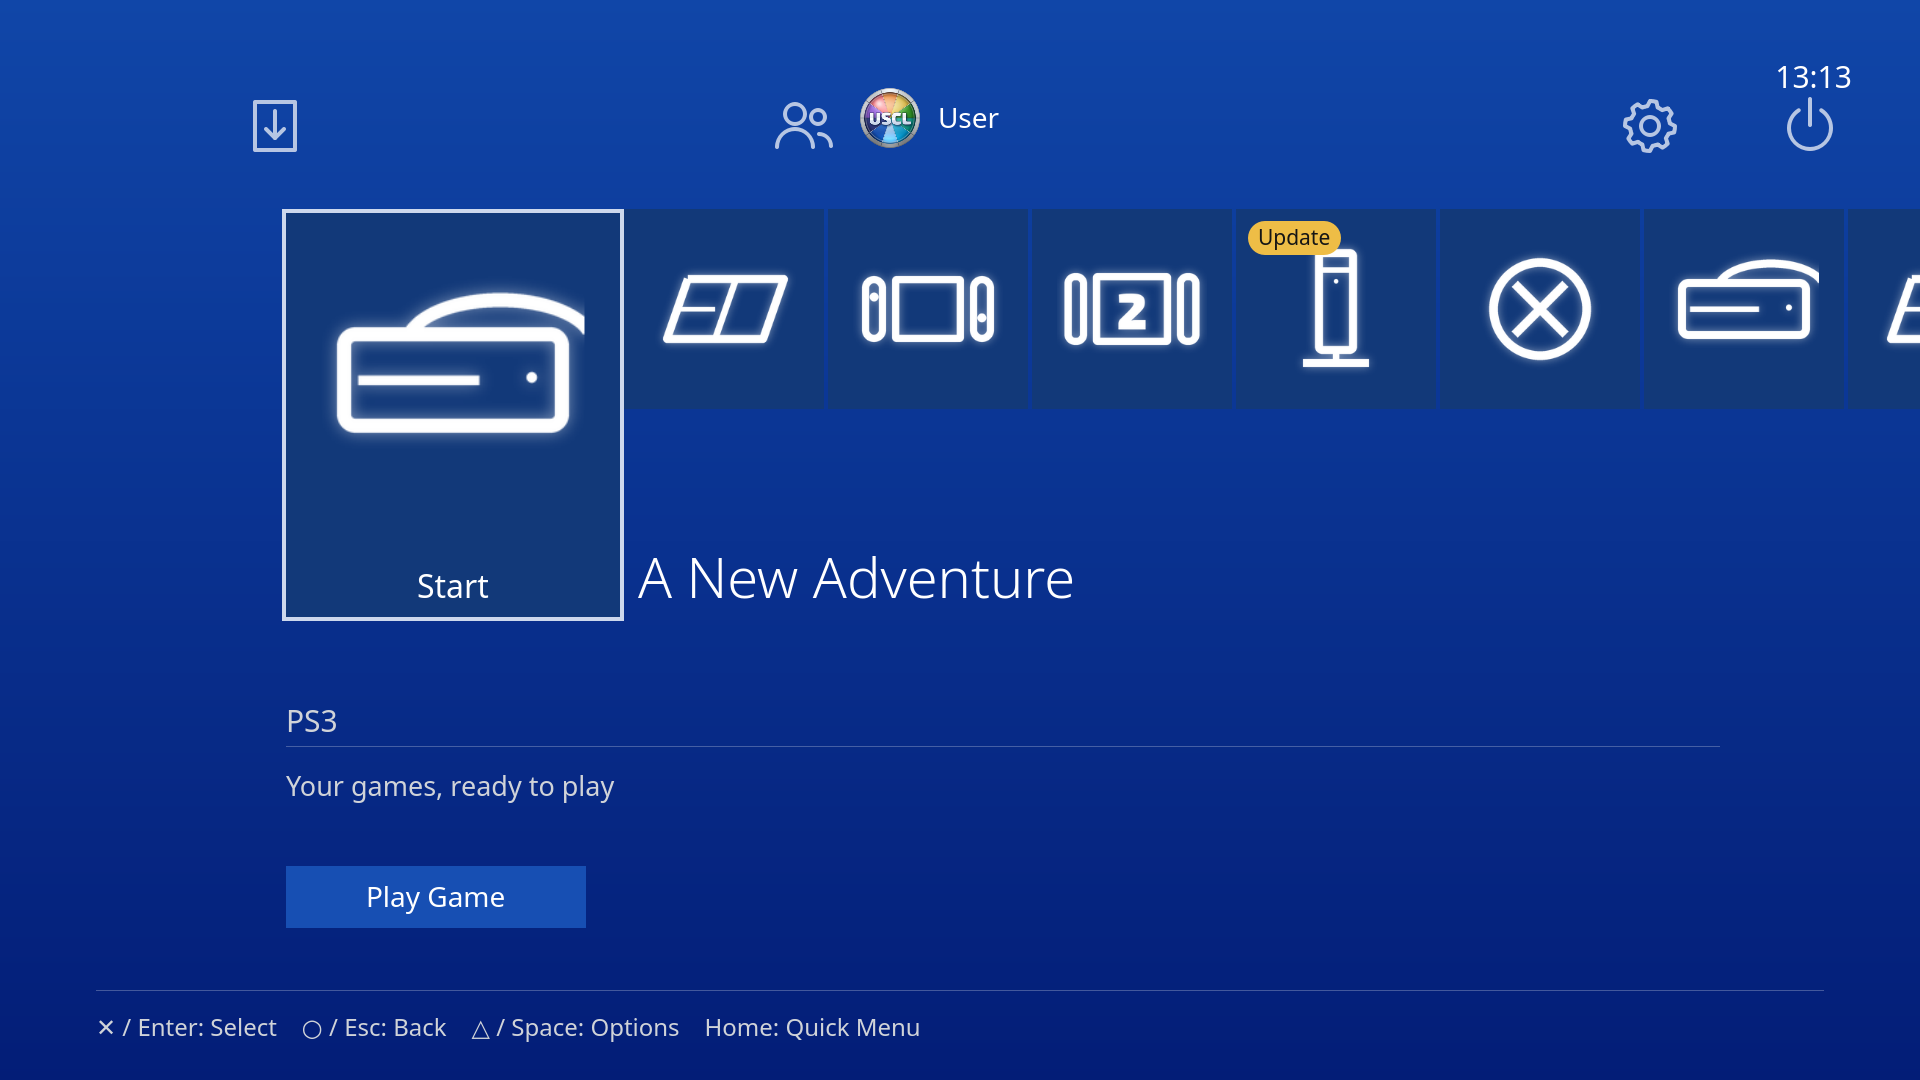
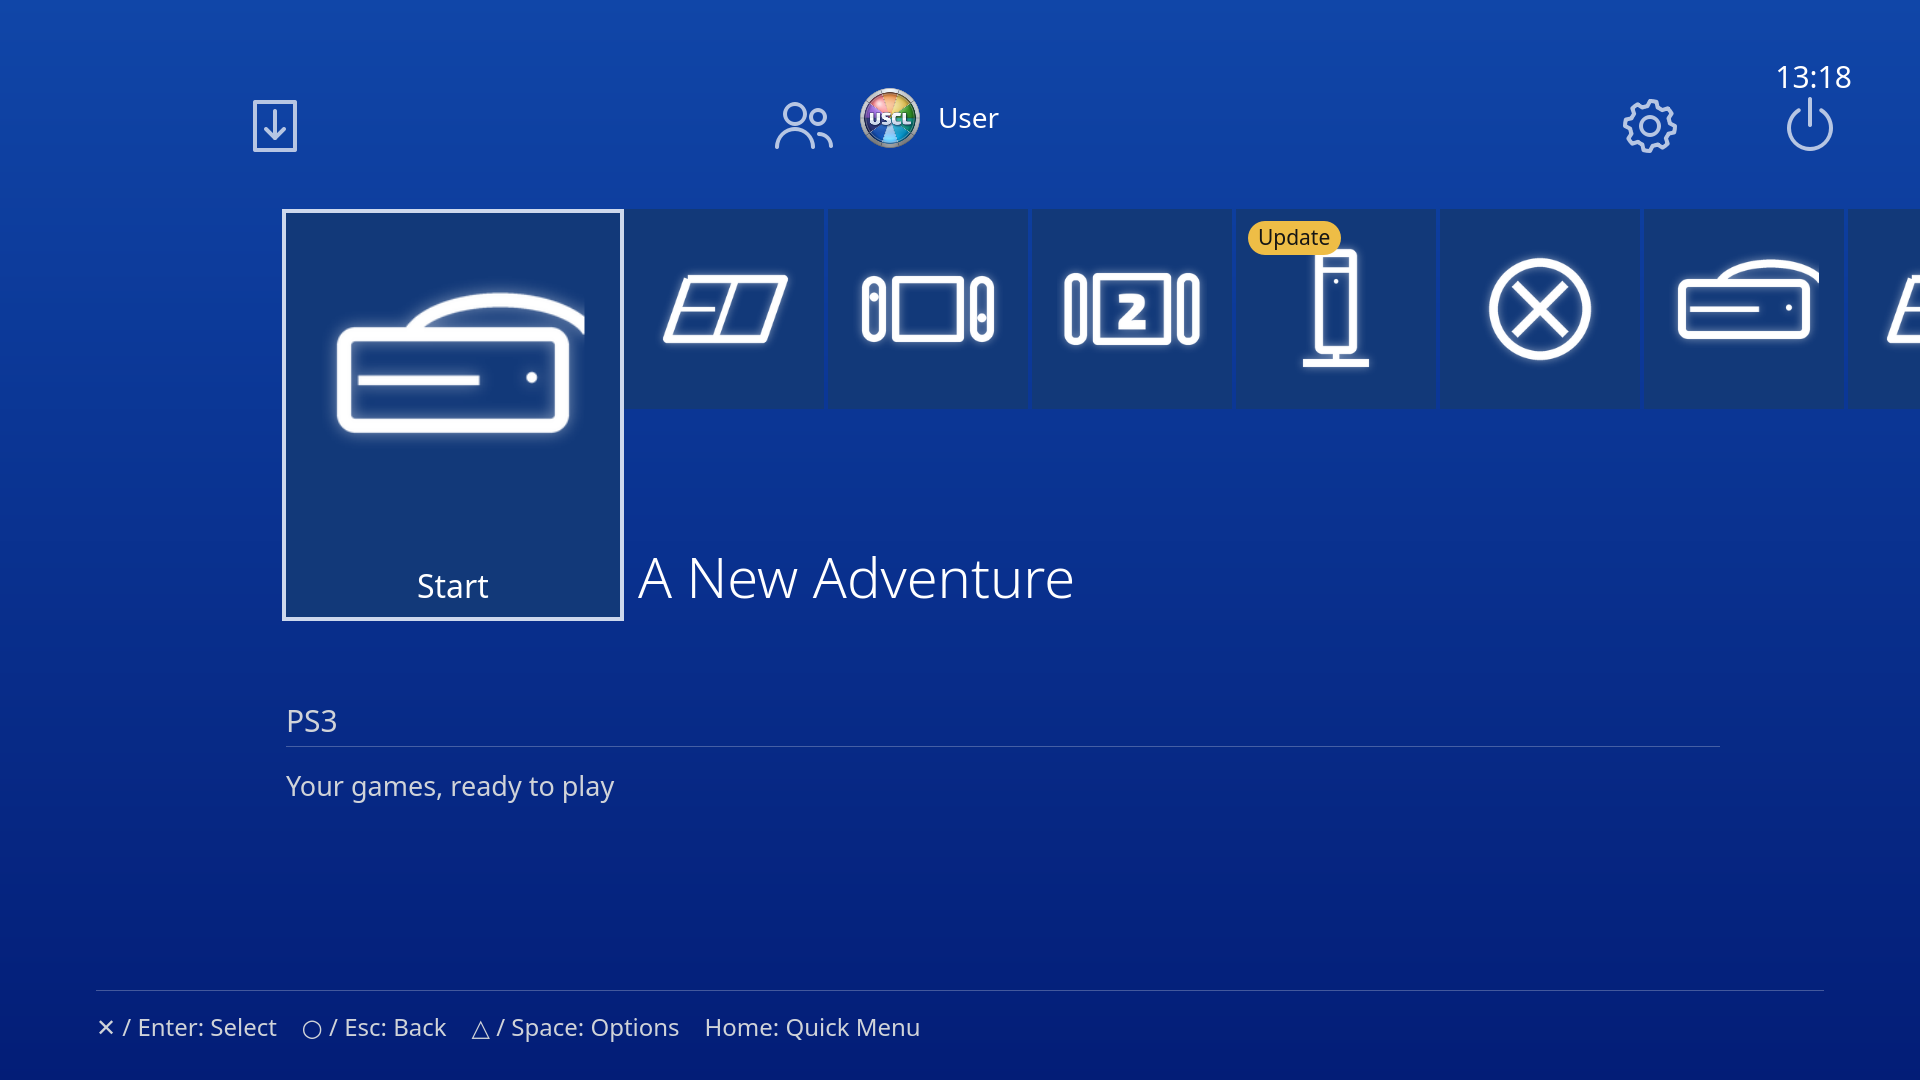
Keep PS4 information actions separate from Start

Changed region(s): [[0.125, 0.7944, 0.3125, 0.8861]]

diff --git a/uscl-shell/qml/ConsoleHome.qml b/uscl-shell/qml/ConsoleHome.qml
@@ -25,6 +25,7 @@ Item {
     property int tab: 0
     property int tileIndex: 0
     property int softwareIndex: 0
+    property int detailsAction: 0
     property bool guideOpen: false
     readonly property int gamesCategory: {
         for (var i = 0; i < navigation.cats.length; i++)
@@ -330,8 +331,10 @@ Item {
         } else if (region === "details") {
             if (button === "up")
                 region = "software";
+            else if (style.ps4 && (button === "left" || button === "right"))
+                detailsAction = button === "right" ? 1 : 0;
             else if (button === "accept")
-                activate(current);
+                activate(current, style.ps4 && !current.key ? (detailsAction ? "options" : "info") : "accept");
             else if (button === "options" || button === "info")
                 activate(current, button);
         } else if (button === "left" || button === "right")
@@ -344,8 +347,10 @@ Item {
         } else if (button === "down") {
             if (nintendo)
                 focusFunctions(0);
-            else
+            else {
+                detailsAction = 0;
                 region = "details";
+            }
         } else if (button === "accept" || button === "options" || button === "info")
             activate(current, button);
     }
@@ -744,23 +749,31 @@ Item {
             elide: Text.ElideRight
         }
         Rectangle {
+            visible: style.ps5 || home.region === "details"
             y: 166
             width: 300
             height: 62
             radius: style.ps5 ? 31 : 0
             color: style.ps5 ? "white" : "#174fb3"
-            border.width: home.region === "details" ? 4 : 0
+            border.width: home.region === "details" && (!style.ps4 || home.detailsAction === 0) ? 4 : 0
             border.color: style.accent
             Text {
                 anchors.centerIn: parent
-                text: home.current && home.current.key ? qsTr("Open Library") : qsTr("Play Game")
+                text: home.current && home.current.key ? qsTr("Open Library") : style.ps4 ? qsTr("Information") : qsTr("Play Game")
                 color: style.ps5 ? "#111111" : "white"
                 font.pixelSize: 28
             }
             MouseArea {
                 anchors.fill: parent
-                onClicked: home.activate(home.current)
+                onClicked: home.activate(home.current, style.ps4 && !home.current.key ? "info" : "accept")
             }
+        }
+        Rectangle {
+            visible: style.ps4 && home.region === "details" && !home.current.key
+            x: 325; y: 166; width: 300; height: 62; color: "#174fb3"
+            border.width: home.detailsAction === 1 ? 4 : 0; border.color: style.accent
+            Text { anchors.centerIn: parent; text: qsTr("Options"); color: "white"; font.pixelSize: 28 }
+            MouseArea { anchors.fill: parent; onClicked: home.activate(home.current,"options") }
         }
     }
     // Xbox pivots have their own dashboard panels, rather than turning settings into game covers.

diff --git a/uscl-shell/tests/tst_themes.qml b/uscl-shell/tests/tst_themes.qml
@@ -20,6 +20,7 @@ Item {
         name: "ConsoleThemes"
         when: windowShown
         property int launches: 0
+        property int inspected: 0
         SignalSpy { id: sectionSpy; target: home; signalName: "sectionRequested" }
         SignalSpy { id: optionsSpy; target: navigation; signalName: "showOptions" }
         function init() {
@@ -29,10 +30,10 @@ Item {
             home.reset()
             page.presentation = ""; page.filterIndex = 0; page.filterFocus = false; page.settingsSection = -1; page.sectionFocus = false; home.pinnedIds = []
             sectionSpy.clear()
-            launches = 0
+            launches = 0; inspected = 0
             optionsSpy.clear()
             var entries = []
-            for (var i = 0; i < 13; i++) entries.push({gameId: "GAME"+i, console: i % 2 ? "PS4" : "PS3", title: "Game " + i, action: function() { launches++ }, options: function() { return [] }})
+            for (var i = 0; i < 13; i++) entries.push({gameId: "GAME"+i, console: i % 2 ? "PS4" : "PS3", title: "Game " + i, action: function() { launches++ }, info: function() { inspected++ }, options: function() { return [] }})
             navigation.cats = [{id: "games", name: "Games", items: entries}, {id: "settings", name: "Settings", items: [{title: "Update USCL", action: function() { launches++ }}]}]
             navigation.cat = 0
             navigation.itemIndex = []
@@ -128,6 +129,14 @@ Item {
                 }
                 compare(Object.keys(visited).length,home.panelEntries.length,"Every tile in pivot "+tab+" must be reachable")
             }
+        }
+        function test_ps4_information_does_not_launch() {
+            home.theme = "ps4"; home.reset()
+            home.input("down"); home.input("accept")
+            compare(inspected,1); compare(launches,0)
+            home.input("right"); home.input("accept")
+            compare(optionsSpy.count,1); compare(launches,0)
+            home.input("back"); home.input("accept"); compare(launches,1)
         }
         function test_blades_game_bar() {
             home.theme = "x360classic"; home.reset()

diff --git a/docs/CONSOLE-THEMES.md b/docs/CONSOLE-THEMES.md
@@ -45,7 +45,7 @@ and [filtered library](images/theme-ps5-library.png).
 | Context | Controls |
 |---|---|
 | PS3 home | Left/right category; up/down item; L1/R1 jumps five |
-| PS4 home | Left/right software; Up opens functions; Down opens game information; Back returns to software |
+| PS4 home | Left/right software; Up opens functions; Down opens Information/Options actions; Back returns to software |
 | PS5 home | Left/right software; Up focuses visible system shortcuts; Down focuses the game action; Home opens Control Center |
 | Nintendo home | Left/right software; Up focuses My Page; Down focuses the lower system row; Back returns to software |
 | Xbox 360 Classic | Left/right or L1/R1 switches blades; up/down selects a menu item or the game/tray bar |
